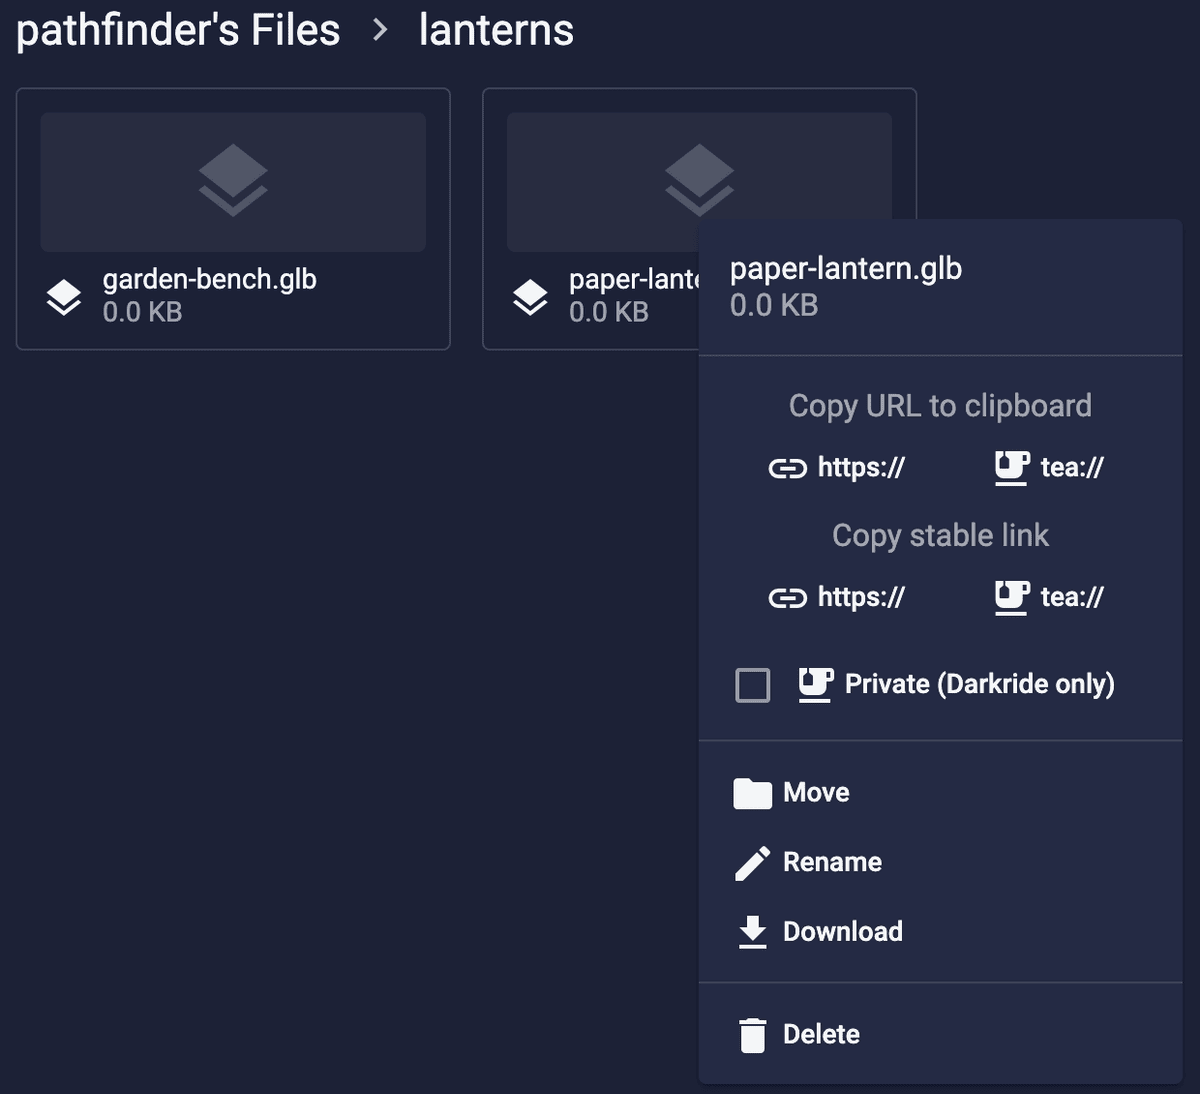
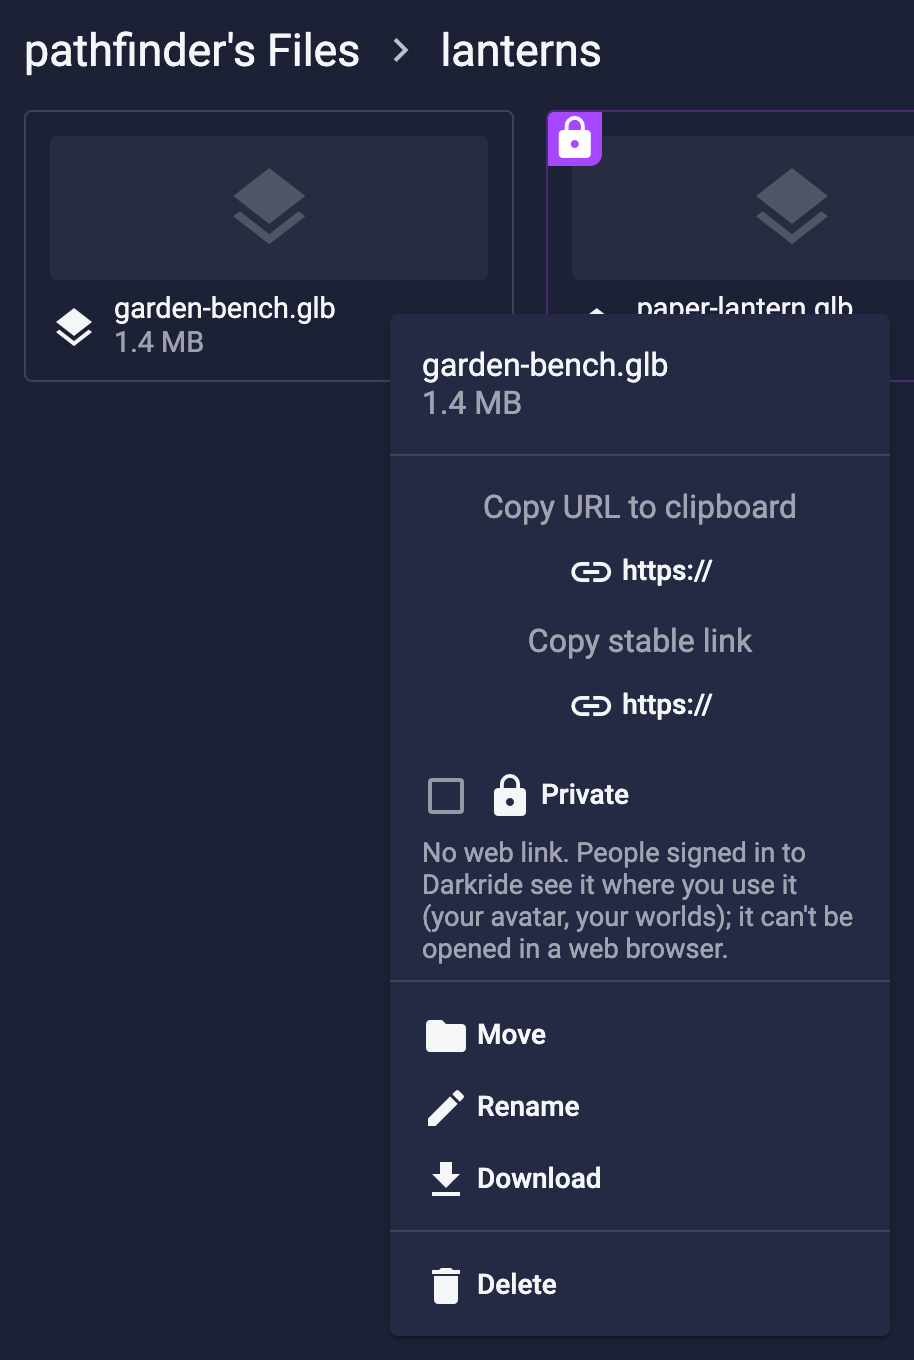
Put up a world: My Files pictures after #15 (metaverse, test account pathfinder): the right-click menu with Copy stable link, and a private file's menu (cropped to its card and menu); both at Retina size (457 px)
Claude-Session: https://claude.ai/code/session_01EQKP5es6cHTNkjCX8qEwWs

diff --git a/worlds/put-up-a-world.md b/worlds/put-up-a-world.md
@@ -119,12 +119,12 @@ Everything in your world needs to be online. The easy place for it is **My Files
    or rename the file.
 3. In Darkride's Build Mode, paste the link where the model, picture or sound goes.
 
-<!-- PICTURE files-copy-link.png: a NEW picture after metaverse's #15 deploy (Copy stable link > https://, no tea://
-buttons, "Private" with its lock and line); the old one showed tea:// and "Private (Darkride only)". Put back as:
-![My Files: a file's right-click menu, with Copy stable link](./images/files-copy-link.png) -->
+<img src="./images/files-copy-link.png" width="457" alt="My Files: a file's right-click menu, with Copy stable link > https://">
 
 To keep a file off the web, tick **Private** in the same menu. A private file has no web link. People signed in to
 Darkride see it where you use it (your avatar, your worlds); it can't be opened in a web browser.
+
+<img src="./images/files-copy-link-private.png" width="457" alt="My Files: a private file's menu, with Private ticked and its stable link for Darkride">
 
 - Put a private file in a world with the link from **Copy stable link** > **https://** (step 2). Its older `tea://`
   address, or its link under **Copy URL to clipboard**, loads it only for you. (Avatars in the **avatars** folder at
